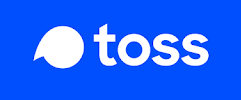
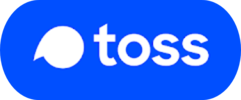
2023-11-21 1. paysuccess.jsp 90% 완성, 이미지 추가 2. payment.jsp 버튼 이미지 추가 및 수장 3. 오타 수정 4. footer 미세 조정

diff --git a/alertravel/src/main/java/org/dawin/controller/DonateController.java b/alertravel/src/main/java/org/dawin/controller/DonateController.java
@@ -15,7 +15,6 @@ import org.springframework.web.bind.annotation.GetMapping;
 import org.springframework.web.bind.annotation.ModelAttribute;
 import org.springframework.web.bind.annotation.PostMapping;
 import org.springframework.web.bind.annotation.RequestMapping;
-import org.springframework.web.bind.annotation.RequestParam;
 
 import lombok.extern.log4j.Log4j;
 
@@ -62,6 +61,10 @@ public class DonateController {
 		service.donateRegister(donate);
 		return "/donate/payment"; // 성공적인 경우의 뷰 페이지
 	}
-
+	
+	@GetMapping("/paysuccess")
+	public void paysuccess() {
+		log.info("=== paysuccess page GetMapping 접속 중 ===");
+	}
 
 }

diff --git a/alertravel/src/main/java/org/dawin/controller/SecurityController.java b/alertravel/src/main/java/org/dawin/controller/SecurityController.java
@@ -8,7 +8,6 @@ import org.dawin.domain.MemberVO;
 import org.dawin.service.MemberService;
 import org.springframework.beans.factory.annotation.Autowired;
 import org.springframework.stereotype.Controller;
-import org.springframework.ui.Model;
 import org.springframework.validation.Errors;
 import org.springframework.web.bind.annotation.GetMapping;
 import org.springframework.web.bind.annotation.ModelAttribute;
